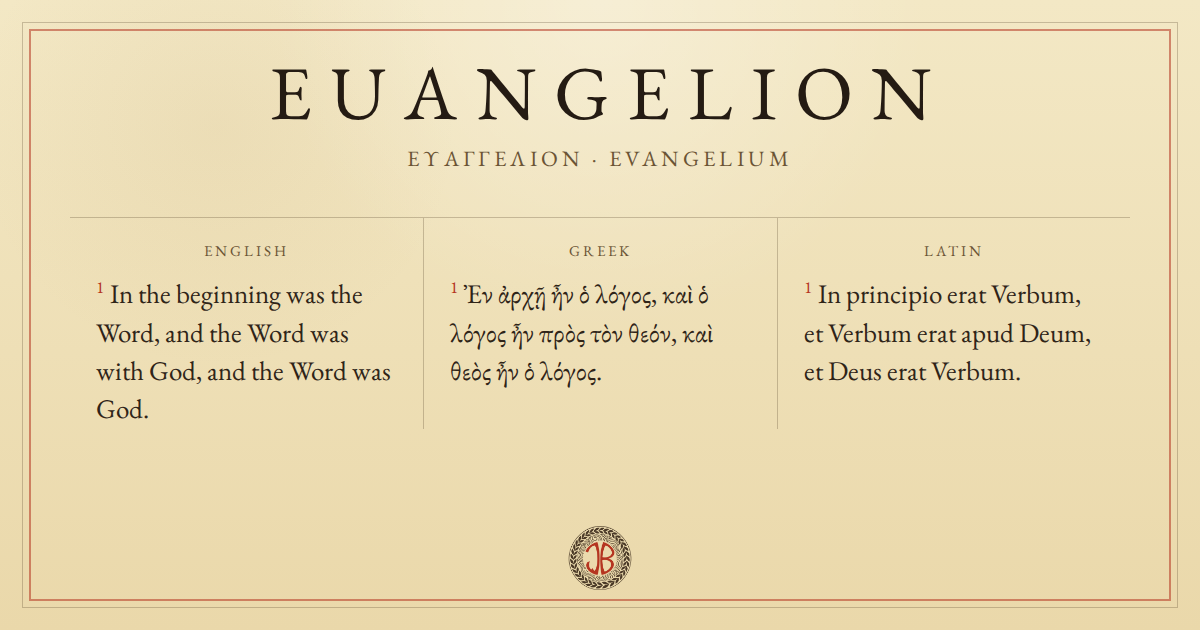
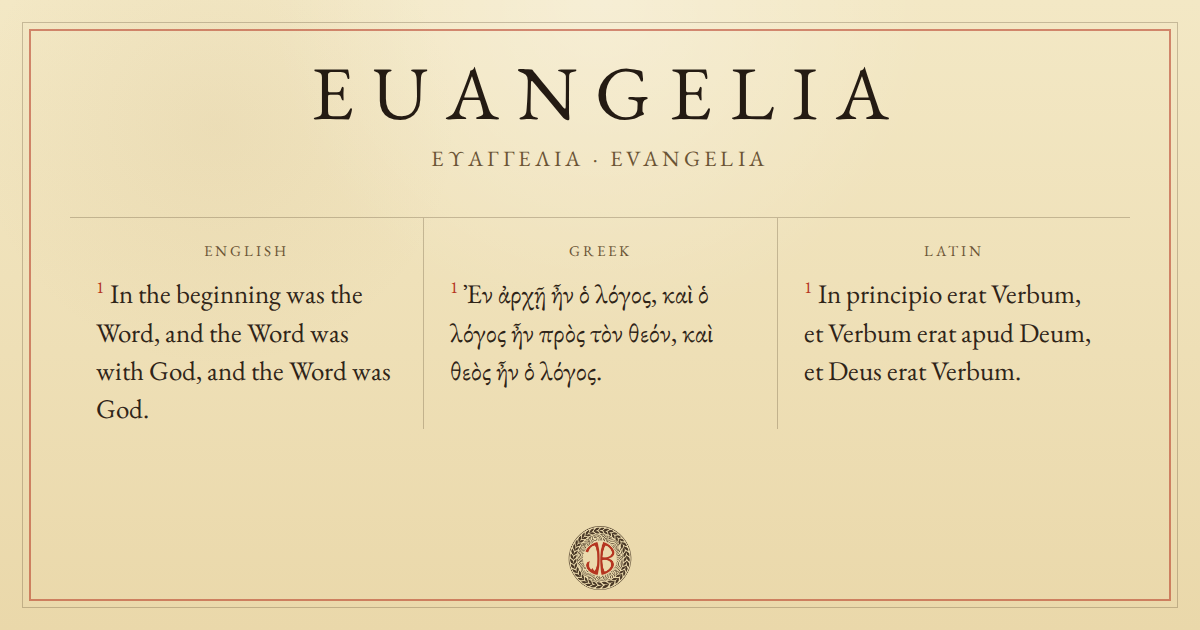
chore: rename the site to Euangelia

Changed region(s): [[0.2158, 0.0905, 0.7708, 0.2111], [0.3392, 0.2413, 0.6783, 0.2714]]

diff --git a/index.html b/index.html
@@ -3,7 +3,7 @@
   <head>
     <meta charset="UTF-8" />
     <meta name="viewport" content="width=device-width, initial-scale=1.0" />
-    <title>Euangelion</title>
+    <title>Euangelia</title>
     <meta
       name="description"
       content="The four Gospels in Greek, Latin and a modern translation, side by side, verse by verse, with the Gospel of the day and the Catena Aurea. · Los cuatro Evangelios en griego, latín y lengua moderna, versículo a versículo."
@@ -15,8 +15,8 @@
 
     <!-- What a shared link shows: link previews do not run JavaScript. -->
     <meta property="og:type" content="website" />
-    <meta property="og:site_name" content="Euangelion" />
-    <meta property="og:title" content="Euangelion" />
+    <meta property="og:site_name" content="Euangelia" />
+    <meta property="og:title" content="Euangelia" />
     <meta
       property="og:description"
       content="The four Gospels in Greek, Latin and a modern translation, side by side, verse by verse. · Los cuatro Evangelios en griego, latín y lengua moderna, versículo a versículo."
@@ -27,14 +27,14 @@
     <meta property="og:image:height" content="630" />
     <meta
       property="og:image:alt"
-      content="John 1:1 in English, Greek and Latin, side by side, under the title Euangelion."
+      content="John 1:1 in English, Greek and Latin, side by side, under the title Euangelia."
     />
     <meta name="twitter:card" content="summary_large_image" />
   </head>
   <body>
     <noscript>
       <p class="noscript">
-        Euangelion needs JavaScript to show the texts. · Euangelion necesita JavaScript para mostrar
+        Euangelia needs JavaScript to show the texts. · Euangelia necesita JavaScript para mostrar
         los textos.
       </p>
     </noscript>

diff --git a/src/App.jsx b/src/App.jsx
@@ -241,7 +241,7 @@ function App() {
   const pageTitle = isDaily ? words.title : gospelName.full;
   useEffect(() => {
     document.documentElement.lang = currentVernacular.lang;
-    document.title = `${pageTitle} · Euangelion`;
+    document.title = `${pageTitle} · Euangelia`;
   }, [currentVernacular.lang, pageTitle]);
 
   // Sticky column headers and scroll targets sit below the sticky nav.
@@ -488,7 +488,7 @@ function App() {
   return (
     <div className="app-shell" style={{ "--reader-font-scale": fontScale }}>
       <header className="masthead">
-        <h1>Euangelion</h1>
+        <h1>Euangelia</h1>
         <p className="masthead-title">{pageTitle}</p>
         <p className="masthead-subtitle">
           <span lang={LANG.greekCaps}>{currentGospel.heading}</span>
@@ -826,7 +826,7 @@ function App() {
         </p>
         <img className="colophon" src={sello} alt="JB" width="72" height="72" />
         <p className="version">
-          <a href="https://github.com/bravojuandb/euangelia">Euangelion {version}</a>
+          <a href="https://github.com/bravojuandb/euangelia">Euangelia {version}</a>
         </p>
       </footer>
 

diff --git a/src/settings.js b/src/settings.js
@@ -11,7 +11,7 @@ import { parseISODate } from "./liturgy.js";
 // The two ways of reading: a whole Gospel, or the Gospel of the day.
 export const VIEWS = ["reader", "daily"];
 
-const STORAGE_KEY = "euangelion:settings";
+const STORAGE_KEY = "euangelia:settings";
 
 function readStorage() {
   try {

diff --git a/CHANGELOG.md b/CHANGELOG.md
@@ -1,6 +1,6 @@
 # Changelog
 
-The versions of Euangelion, newest first. The numbers follow [Semantic Versioning](https://semver.org/): a new major number for changes that break addresses or settings, a minor one for new features, a patch for fixes.
+The versions of Euangelia, newest first. The numbers follow [Semantic Versioning](https://semver.org/): a new major number for changes that break addresses or settings, a minor one for new features, a patch for fixes.
 
 ## 1.0.0 — 2026-11-25
 
